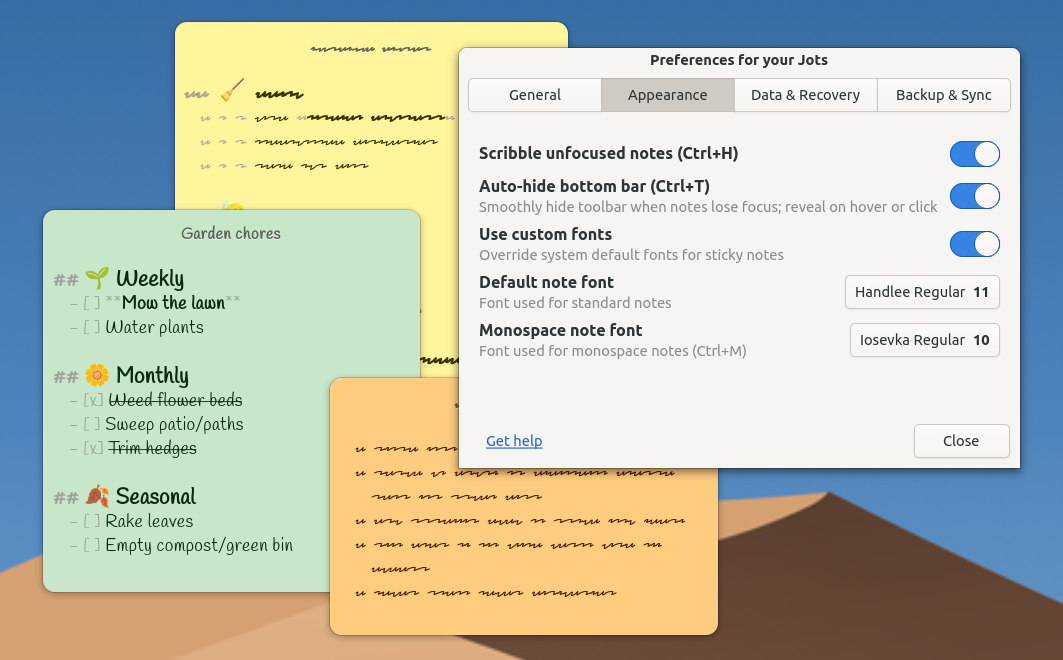
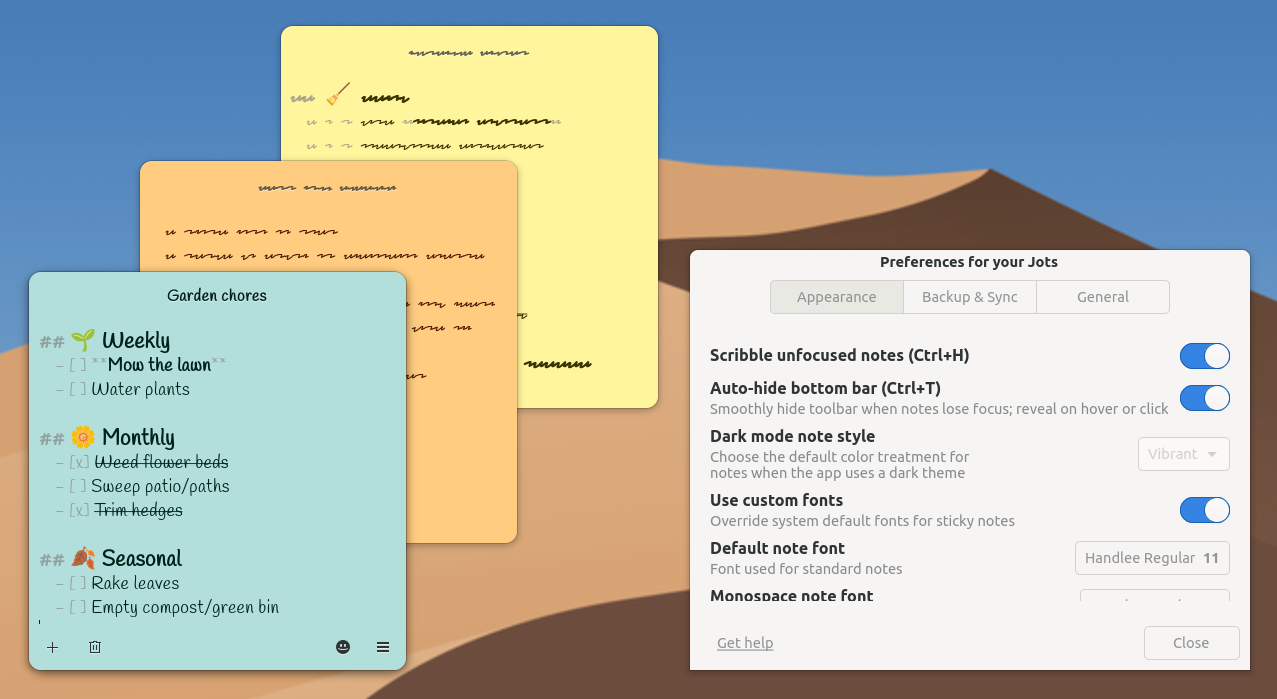
docs(readme): update screenshots for light, vibrant, and ultra-dark themes

diff --git a/README.md b/README.md
@@ -13,7 +13,7 @@
 ## Key features
 
 * 📝 **Markdown editing + plain-file storage**: Write with live Markdown formatting, checklists, clickable links, and resilient smart clipboard paste that converts rich-text/HTML and normalizes loose Markdown while protecting code snippets. Notes are saved as standard `.md` files you can back up or use in other tools.
-* 🎨 **Color themes**: Pick from 12 pastel themes that look good in both light and dark mode.
+* 🎨 **Color themes**: Pick from 12 expressive themes tailored for light mode, vibrant dark mode, and ultra-dark mode.
 * 🔤 **Font controls**: Choose your preferred text and code fonts to match how you like to read and write.
 * 🔒 **Privacy mode**: Hide note text when you need to protect sensitive content on screen.
 * 🔁 **Git backup sync**: Connect a Git remote, choose how often to sync, and use **Sync now** when you want an immediate backup.
@@ -35,7 +35,7 @@
     <source media="(prefers-color-scheme: light)" srcset="data/screenshots/jots-light.png">
     <img class="center" src="data/screenshots/jots-light.png" alt="Jots screenshot">
   </picture>
-  <p>View the screenshot in <a href="data/screenshots/jots-light.png">light mode</a> or <a href="data/screenshots/jots-dark.png">dark mode</a>.</p>
+  <p>View screenshots in <a href="data/screenshots/jots-light.png">light mode</a>, <a href="data/screenshots/jots-dark.png">dark mode (vibrant)</a>, or <a href="data/screenshots/jots-dark-ultra.png">ultra-dark mode</a>.</p>
 </div>
 
 ## Installation and quick start
